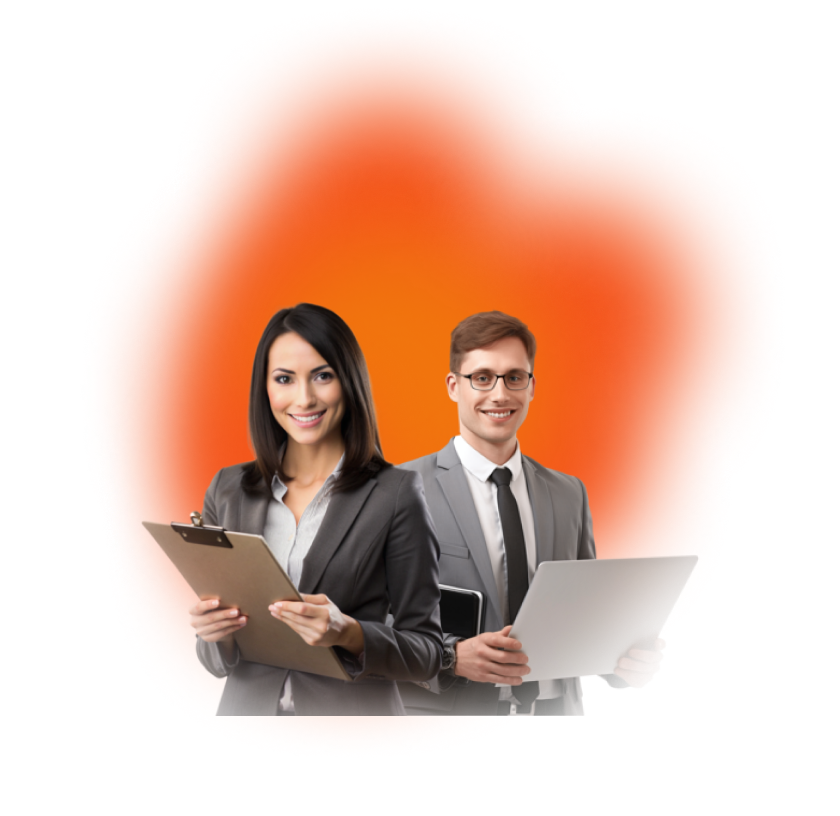
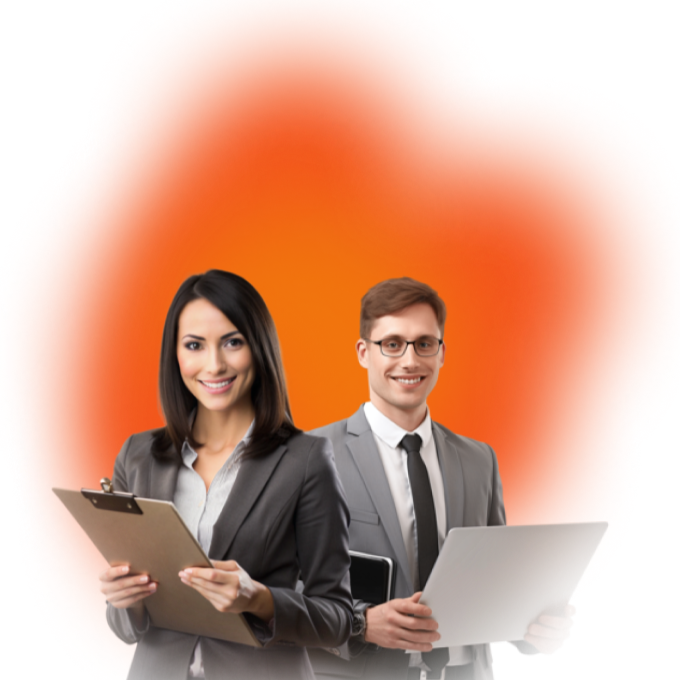
feature(career):fix responsive

diff --git a/src/components/career/list-job/index.jsx b/src/components/career/list-job/index.jsx
@@ -1,29 +1,59 @@
 'use client'
-import { useState } from 'react'
+
+import { useEffect, useState } from 'react'
 import { Alert, User, Gaji, Stack, Search, Dropdown } from '@/assets/icons/IconCareer'
 
 export default function ListJob() {
   const [isOpen, setIsOpen] = useState(false)
   const [selected, setSelected] = useState('Semua Tingkat')
+  const [jobs, setJobs] = useState([])
+  const [filteredJobs, setFilteredJobs] = useState([])
+  const [positions, setPositions] = useState(['Semua Tingkat'])
 
-  const positions = ['Frontend Developer', 'Backend Developer', 'UI/UX Designer', 'DevOps Engineer', 'Product Manager']
+  useEffect(() => {
+    fetch('/career.json')
+      .then(res => res.json())
+      .then(data => {
+        setJobs(data)
+        setFilteredJobs(data)
+
+        const levels = data.map(item => item.level)
+        const uniqueLevels = [...new Set(levels)]
+        setPositions(['Semua Tingkat', ...uniqueLevels])
+      })
+      .catch(err => console.error('Gagal memuat data:', err))
+  }, [])
+
+  useEffect(() => {
+    if (selected === 'Semua Tingkat') {
+      setFilteredJobs(jobs)
+    } else {
+      setFilteredJobs(jobs.filter(job => job.level === selected))
+    }
+  }, [selected, jobs])
+
   return (
-    <section className="px-[8%] py-[5%] flex flex-col">
-      <div className=" flex flex-row gap-3 pb-5">
-        <div className="border-b-2  border-neutral-800 flex flex-row ">
-          <input className="w-md focus:outline-none" placeholder="Cari Posisi" />
-
+    <section className="px-6 sm:px-[8%] py-16 flex flex-col">
+      <div className="flex flex-col md:flex-row gap-4 md:gap-6 pb-10">
+        <div className="flex items-center border-b-2 border-neutral-800 w-full md:w-1/2">
+          <input
+            className="w-full px-3 py-2 focus:outline-none text-sm md:text-base"
+            placeholder="Cari Posisi"
+          />
           <Search />
         </div>
-        <div className="relative inline-block w-64">
-          <div className="flex">
-            <button onClick={() => setIsOpen(!isOpen)} className="w-full px-4 py-2 bg-white border border-gray-300 rounded-md shadow-sm flex items-center justify-between focus:outline-none focus:ring-2 focus:ring-orange-500">
-              <span>{selected}</span>
-              <Dropdown />
-            </button>
-          </div>
+
+        <div className="relative w-full md:w-64">
+          <button
+            onClick={() => setIsOpen(!isOpen)}
+            className="w-full px-4 py-2 bg-white border border-gray-300 shadow-sm flex items-center justify-between focus:outline-none focus:ring-2 focus:ring-orange-500 rounded-full text-sm md:text-base"
+          >
+            <span>{selected}</span>
+            <Dropdown />
+          </button>
+
           {isOpen && (
-            <ul className="absolute z-10 w-full mt-2 bg-white border border-gray-300 rounded-md shadow-lg max-h-60 overflow-auto">
+            <ul className="absolute z-10 w-full mt-2 bg-white border border-gray-300 rounded-md shadow-lg max-h-60 overflow-auto text-sm">
               {positions.map((position, index) => (
                 <li
                   key={index}
@@ -41,37 +71,43 @@ export default function ListJob() {
         </div>
       </div>
 
-      <div className="grid grid-cols-3 gap-4">
-        <div className=" bg-white border-2 rounded-xl p-5 text-neutral-400 font-semibold">
-          <h1 className="typo-h4 text-neutral-700 pb-3">Frontend Developer</h1>
-          <div className="bg-neutral-300 w-1/4 rounded-2xl">
-            <p className="text-neutral-700 text-center typo-lg font-semibold text-lg px-3 py-1">Magang</p>
-          </div>
+      <div className="grid grid-cols-1 sm:grid-cols-2 lg:grid-cols-3 gap-6">
+        {filteredJobs.map((job) => (
+          <div key={job.id} className="bg-white border-2 rounded-xl p-5 text-neutral-400 font-semibold shadow-sm">
+            <h1 className="text-xl text-neutral-700 pb-3 font-bold">{job.title}</h1>
+            <div className="bg-neutral-300 w-fit rounded-2xl px-3 py-1 mb-4">
+              <p className="text-neutral-700 text-center font-semibold text-sm">{job.level}</p>
+            </div>
 
-          <div className="pt-6">
-            <div className="flex flex-row gap-2">
-              <Alert />
-              <p>Ditutup 24 november 2025</p>
+            <div className="pt-2 space-y-2 text-sm">
+              <div className="flex gap-2 items-start">
+                <Alert />
+                <p>{job.detail.time}</p>
+              </div>
+              <div className="flex gap-2 items-start">
+                <User />
+                <p>{job.detail.experience}</p>
+              </div>
+              <div className="flex gap-2 items-start">
+                <Gaji />
+                <p>{job.detail.salary}</p>
+              </div>
+              <div className="flex gap-2 items-start">
+                <Stack />
+                <p>{job.detail.tech.join(', ')}</p>
+              </div>
             </div>
-            <div className="flex flex-row gap-2">
-              <User />
-              <p>pengalaman min 1 tahun</p>
-            </div>
-            <div className="flex flex-row gap-2">
-              <Gaji />
-              <p>2.000.000-3.000.000</p>
-            </div>
-            <div className="flex flex-row gap-2">
-              <Stack />
-              <p>React, NextJs, HTML, CSS</p>
+
+            <div className="flex justify-end">
+              <a
+                href="/"
+                className="text-sm font-semibold text-white px-6 py-2 inline-block rounded-full bg-gradient-to-r from-[#EF9419] to-[#C94F1E] transition duration-300 hover:scale-105 mt-4"
+              >
+                Lihat lowongan
+              </a>
             </div>
           </div>
-          <div className="flex justify-end">
-            <a href="/" className="text-lg font-semibold text-white px-10 py-2 inline-block rounded-full bg-gradient-to-r from-[#EF9419] to-[#C94F1E] transition duration-300 hover:scale-110 mt-4">
-              Lihat lowongan
-            </a>
-          </div>
-        </div>
+        ))}
       </div>
     </section>
   )

diff --git a/src/components/career/hero/index.jsx b/src/components/career/hero/index.jsx
@@ -1,34 +1,30 @@
-import Image from 'next/image';
+import Image from 'next/image'
+import HeroCareer from '@/assets/images/hero-career.png'
 
 export default function Hero() {
   return (
-    <section className="px-[8%] py-[8%] w-full">
-      <div className="grid grid-cols-1 lg:grid-cols-[55%_45%] gap-8 items-center">
-
-        {/* Teks */}
-        <div className="flex flex-col gap-6 text-center lg:text-left">
-          <h1 className="typo-h3 md:typo-h2 lg:typo-h1 typo-gradient">
+    <section id='start' className="pt-28 px-6 sm:px-[8%] py-10 w-full">
+      <div className="grid grid-cols-1 md:grid-cols-[55%_45%] gap-10 items-center">
+        <div className="flex flex-col gap-6 text-center md:text-left">
+          <h1 className="typo-h2 lg:typo-h1 font-bold bg-gradient-to-r from-orange-500 to-red-500 bg-clip-text text-transparent leading-tight">
             Investasi Pada Pengembangan Talenta
           </h1>
-          <p className="text-lg text-neutral-700 font-semibold leading-relaxed">
+          <p className="text-base md:text-lg text-neutral-700 font-medium leading-relaxed">
             Sebagai bagian dari strategi jangka panjang, FlyHigh menjalankan program MAKRO (Magang Kreatif dan Progresif), sebuah inisiatif akselerasi talenta digital untuk membekali generasi muda dengan pengalaman nyata di industri
             teknologi. Program ini tidak hanya menciptakan pipeline SDM unggul, tetapi juga memperkuat fondasi inovasi internal perusahaan.
           </p>
         </div>
-
-        {/* Gambar */}
-        <div className="w-full">
+        <div className="w-full max-w-xs sm:max-w-sm md:max-w-md lg:max-w-lg xl:max-w-xl mx-auto">
           <Image
-            src="/images/hero-career.png"
+            src={HeroCareer}
             alt="Career Hero"
             width={800}
             height={600}
-            className="w-full h-auto object-cover"
+            className="w-full h-auto object-contain"
             priority
           />
         </div>
-
       </div>
     </section>
-  );
+  )
 }

diff --git a/src/components/career/testimoni/index.jsx b/src/components/career/testimoni/index.jsx
@@ -1,7 +1,51 @@
-export default function Testimoni(){
-    return(
-        <section>
-            <h1>testimoni</h1>
-        </section>
-    );
+import Image from 'next/image'
+import testiKarir1 from '@/assets/images/testi-karir-1.png'
+import testiKarir2 from '@/assets/images/testi-karir-2.png'
+import testiKarir3 from '@/assets/images/testi-karir-3.png'
+
+const testimonials = [
+  {
+    image: testiKarir1,
+    name: 'Alexa',
+    role: 'Frontend Developer Intern',
+    text: 'Monthly meeting dan kegiatan-kegiatan lain yang menyenangkan.',
+  },
+  {
+    image: testiKarir2,
+    name: 'Lava',
+    role: 'Backend Developer Intern',
+    text: 'Monthly meeting dan kegiatan-kegiatan lain yang menyenangkan.',
+  },
+  {
+    image: testiKarir3,
+    name: 'Teri',
+    role: 'Frontend Developer Intern',
+    text: 'Bagus.',
+  },
+]
+
+export default function Testimoni() {
+  return (
+    <section className="px-6 sm:px-[8%] py-12">
+      <div className="flex flex-col justify-center gap-10">
+        <h1 className="typo-h2 lg:typo-h1 typo-gradient gradient-color text-center">Apa Kata Mereka?</h1>
+
+        <div className="grid grid-cols-1 md:grid-cols-3 gap-8">
+          {testimonials.map((item, index) => (
+            <div key={index} className="flex flex-col items-center justify-center gap-4 text-center">
+              <Image
+                src={item.image}
+                alt={`Testimoni Karir ${index + 1}`}
+                className="w-4/5 max-w-[250px] sm:w-full h-auto"
+              />
+              <h5 className="typo-h5 font-bold text-neutral-800">
+                {item.name} - {item.role}
+              </h5>
+              <p className="text-base font-semibold text-neutral-700">{item.text}</p>
+            </div>
+          ))}
+        </div>
+      </div>
+    </section>
+  )
 }

diff --git a/src/app/career/page.js b/src/app/career/page.js
@@ -7,7 +7,7 @@ import NavigationBar from "@/components/shared/NavigationBar";
 import Footer from "@/components/shared/Footer";
 export default function Career() {
 	return (
-		<main>
+		<main >
 			<NavigationBar />
 			<Hero />
 			<ListJob />
